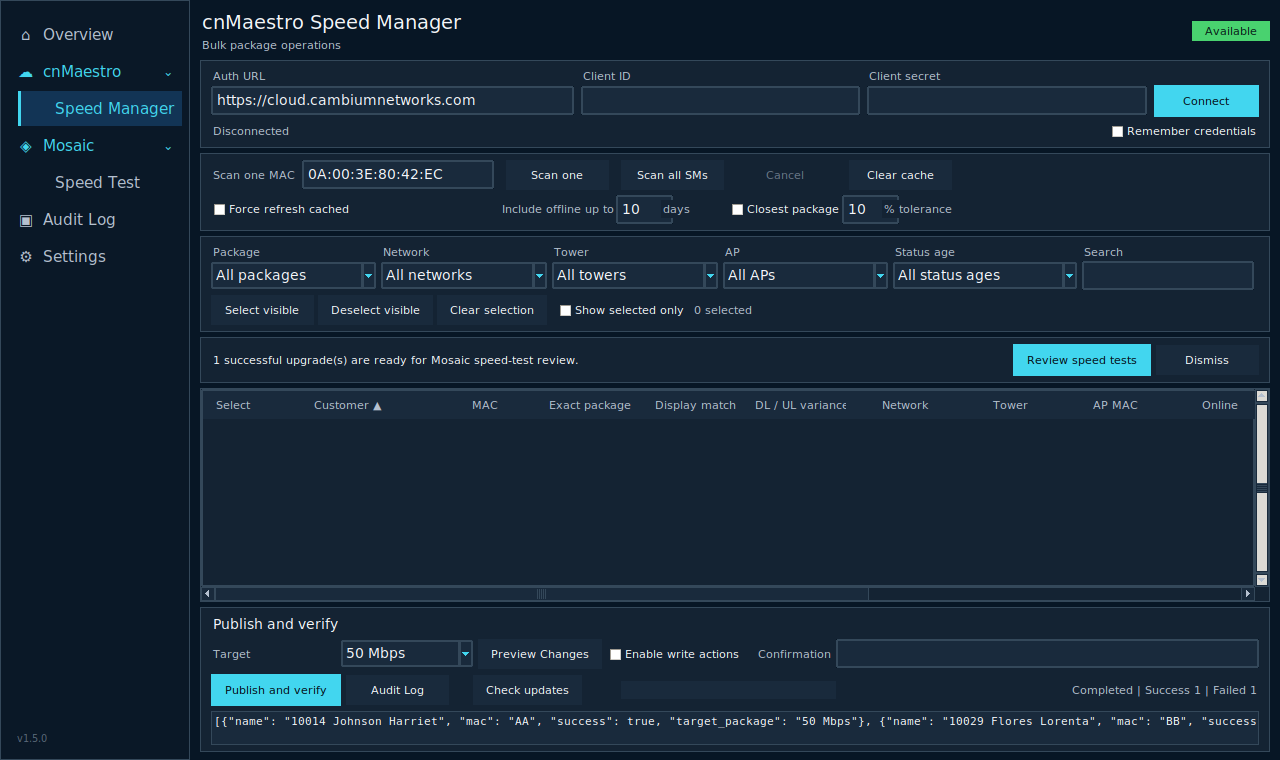
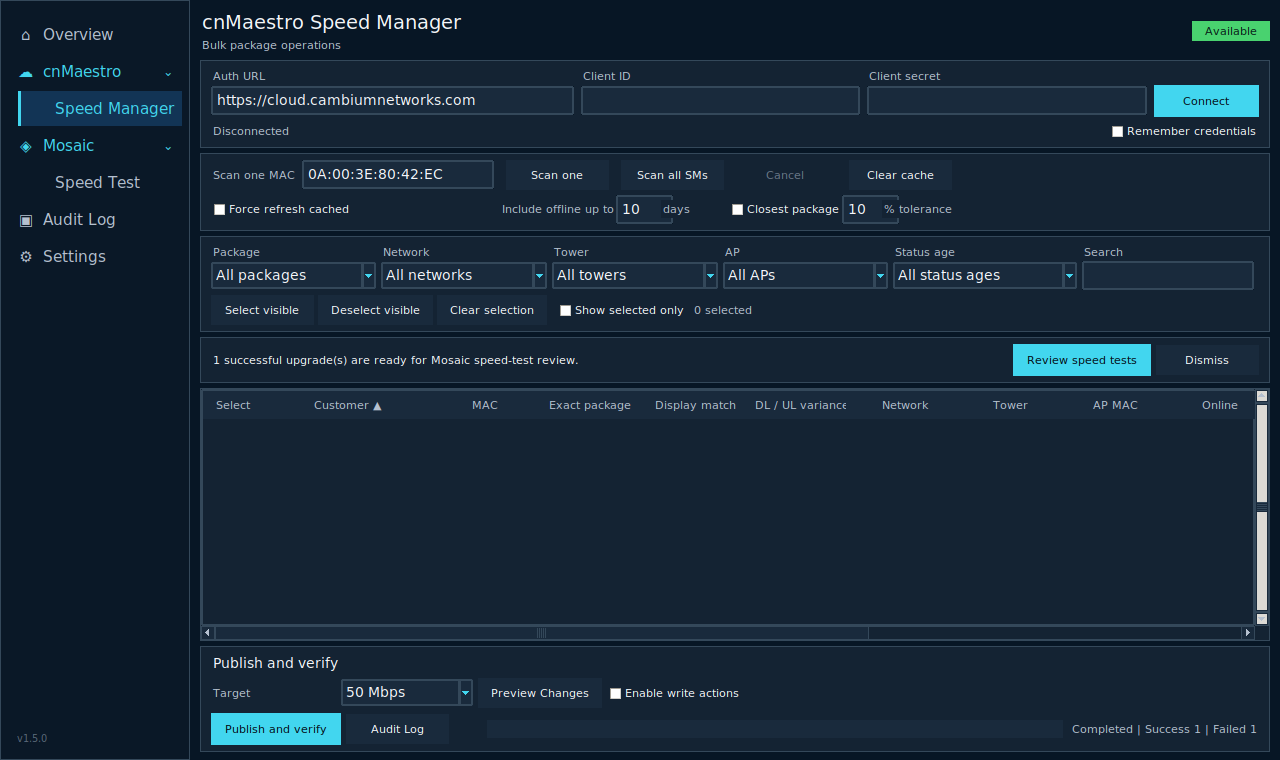
feat: improve result management and preview workflow
Add test timestamps, safe CSV export, list clearing, preview pop-out, connection guards, and streamlined Speed Manager controls.

Changed region(s): [[0.1562, 0.7566, 1.0, 0.9987], [0.9688, 0.6355, 1.0, 0.6658]]

diff --git a/cnmaestro_speed_manager.py b/cnmaestro_speed_manager.py
@@ -217,16 +217,26 @@ class App(tk.Tk):
   table_o,table=self.card(p,0,0);table_o.grid(row=4,column=0,sticky='nsew',pady=(0,5));table.columnconfigure(0,weight=1);table.rowconfigure(0,weight=1);self.cols=('select','name','mac','package','match','variance','network','tower','ap','online','stateage','rates','cache','stage','issue');heads=('Select','Customer','MAC','Exact package','Display match','DL / UL variance','Network','Tower','AP MAC','Online','Status age','DL / UL','Cache age','Progress','Issue');self.heads=dict(zip(self.cols,heads));self.tree=ttk.Treeview(table,columns=self.cols,show='headings',selectmode='none',height=4)
   for col,n in zip(self.cols,heads):self.tree.heading(col,text=n,command=lambda c=col:self.sort(c));self.tree.column(col,width=60 if col=='select' else (170 if col in ('name','issue') else 105),anchor='center' if col=='select' else 'w',stretch=False)
   self.tree.bind('<Button-1>',self.tree_click);y=ttk.Scrollbar(table,orient='vertical',command=self.tree.yview);x=ttk.Scrollbar(table,orient='horizontal',command=self.tree.xview);self.tree.configure(yscrollcommand=y.set,xscrollcommand=x.set);self.tree.grid(row=0,column=0,sticky='nsew');y.grid(row=0,column=1,sticky='ns');x.grid(row=1,column=0,sticky='ew')
-  o,b=self.card(p,10,6);o.grid(row=5,column=0,sticky='ew');self.preview_window=o;self.target=tk.StringVar(value='50 Mbps');self.write=tk.BooleanVar(value=False);self.confirm=tk.StringVar();ttk.Label(b,text='Publish and verify',style='CardTitle.TLabel').grid(row=0,column=0,columnspan=6,sticky='w',pady=(0,4));ttk.Label(b,text='Target',style='SurfaceMuted.TLabel').grid(row=1,column=0,sticky='w');ttk.Combobox(b,textvariable=self.target,values=list(PKGS),state='readonly',width=12).grid(row=1,column=1,sticky='w');ttk.Button(b,text='Preview Changes',command=self.preview_changes).grid(row=1,column=2,padx=5,sticky='w');self.w=ttk.Checkbutton(b,text='Enable write actions',variable=self.write);self.w.grid(row=1,column=3,sticky='w');ttk.Label(b,text='Confirmation',style='SurfaceMuted.TLabel').grid(row=1,column=4,padx=(14,3),sticky='e');ttk.Entry(b,textvariable=self.confirm,width=22).grid(row=1,column=5,sticky='ew');b.columnconfigure(5,weight=1)
-  self.pub=ttk.Button(b,text='Publish and verify',style='Accent.TButton',command=self.execute);self.pub.grid(row=2,column=0,sticky='w',pady=(5,0));ttk.Button(b,text='Audit Log',command=self.audit).grid(row=2,column=1,sticky='w',padx=5,pady=(5,0));ttk.Button(b,text='Check updates',command=lambda:self.check_updates(False)).grid(row=2,column=2,sticky='w',pady=(5,0));self.progress=ttk.Progressbar(b,mode='determinate');self.progress.grid(row=2,column=3,columnspan=2,sticky='ew',padx=(14,0),pady=(5,0));self.progtext=tk.StringVar(value='No publish operation active.');ttk.Label(b,textvariable=self.progtext,style='SurfaceMuted.TLabel').grid(row=2,column=5,sticky='e',padx=(7,0),pady=(5,0));self.out=tk.Text(b,height=2,width=1,bg=self.colors['surface2'],fg=self.colors['text'],insertbackground=self.colors['text'],relief='flat',highlightbackground=self.colors['border'],highlightthickness=1,font=('Consolas',8),wrap='none');self.out.grid(row=3,column=0,columnspan=6,sticky='ew',pady=(5,0))
+  o,b=self.card(p,10,6);o.grid(row=5,column=0,sticky='ew');self.publish_panel=o;self.preview_window=None;self.preview_tree=None;self.target=tk.StringVar(value='50 Mbps');self.write=tk.BooleanVar(value=False);self.confirm=tk.StringVar();ttk.Label(b,text='Publish and verify',style='CardTitle.TLabel').grid(row=0,column=0,columnspan=6,sticky='w',pady=(0,4));ttk.Label(b,text='Target',style='SurfaceMuted.TLabel').grid(row=1,column=0,sticky='w');ttk.Combobox(b,textvariable=self.target,values=list(PKGS),state='readonly',width=12).grid(row=1,column=1,sticky='w');ttk.Button(b,text='Preview Changes',command=self.preview_changes).grid(row=1,column=2,padx=5,sticky='w');self.w=ttk.Checkbutton(b,text='Enable write actions',variable=self.write);self.w.grid(row=1,column=3,sticky='w');b.columnconfigure(4,weight=1)
+  self.pub=ttk.Button(b,text='Publish and verify',style='Accent.TButton',command=self.publish_from_ui);self.pub.grid(row=2,column=0,sticky='w',pady=(5,0));ttk.Button(b,text='Audit Log',command=self.audit).grid(row=2,column=1,sticky='w',padx=5,pady=(5,0));self.progress=ttk.Progressbar(b,mode='determinate');self.progress.grid(row=2,column=2,columnspan=3,sticky='ew',padx=(14,0),pady=(5,0));self.progtext=tk.StringVar(value='No publish operation active.');ttk.Label(b,textvariable=self.progtext,style='SurfaceMuted.TLabel').grid(row=2,column=5,sticky='e',padx=(7,0),pady=(5,0));self.out=tk.Text(b,height=2,width=1,bg=self.colors['surface2'],fg=self.colors['text'],insertbackground=self.colors['text'],relief='flat',highlightbackground=self.colors['border'],highlightthickness=1,font=('Consolas',8),wrap='none');self.out.grid(row=3,column=0,columnspan=6,sticky='ew',pady=(5,0));self.out.grid_remove()
   self.mosaic_handoff_outer,handoff=self.card(p,10,6);self.mosaic_handoff_outer.grid(row=3,column=0,sticky='ew',pady=(0,5));self.mosaic_handoff_outer.grid_remove();handoff.columnconfigure(0,weight=1);self.mosaic_handoff_text=tk.StringVar(value='');ttk.Label(handoff,textvariable=self.mosaic_handoff_text,style='Surface.TLabel').grid(row=0,column=0,sticky='w');ttk.Button(handoff,text='Review speed tests',style='Accent.TButton',command=self.review_speedtests).grid(row=0,column=1,padx=5);ttk.Button(handoff,text='Dismiss',command=lambda:self.mosaic_handoff_outer.grid_remove()).grid(row=0,column=2)
  def build_control_window(self):self.controls=self.pages['speed_manager']
  def open_controls(self):self.show_page('speed_manager')
  def back_to_speed_manager(self):self.show_page('speed_manager')
- def show_preview_view(self):self.show_page('speed_manager')
+ def show_preview_view(self):
+  if self.preview:self.open_preview_window()
  def smoke_inline_views(self):self.open_controls();self.show_preview_view();self.back_to_speed_manager();self.title('Operations Toolkit - inline views smoke complete')
- def build_preview_window(self):self.preview_window=self.pages['speed_manager']
+ def build_preview_window(self):return None
+ def open_preview_window(self):
+  if self.preview_window and self.preview_window.winfo_exists():self.preview_window.destroy()
+  win=tk.Toplevel(self);self.preview_window=win;win.title('Preview Changes');win.geometry('1000x480');win.minsize(760,320);win.configure(bg=self.colors['bg']);win.transient(self)
+  shell=ttk.Frame(win,padding=(12,10));shell.pack(fill='both',expand=True);shell.columnconfigure(0,weight=1);shell.rowconfigure(1,weight=1);ttk.Label(shell,text='Preview Changes',style='PageTitle.TLabel').grid(row=0,column=0,sticky='w',pady=(0,8))
+  cols=('customer','mac','current','target','network','tower','online');heads=('Customer','MAC','Current package','Target package','Network','Tower','Online');tree=ttk.Treeview(shell,columns=cols,show='headings');self.preview_tree=tree
+  for col,head in zip(cols,heads):tree.heading(col,text=head);tree.column(col,width=180 if col=='customer' else 125,stretch=False)
+  for row in self.preview:tree.insert('', 'end',values=(row.get('name',''),row.get('mac',''),row.get('package',''),row.get('target_package',''),row.get('network',''),row.get('tower',''),'Yes' if row.get('online') else 'No'))
+  y=ttk.Scrollbar(shell,orient='vertical',command=tree.yview);x=ttk.Scrollbar(shell,orient='horizontal',command=tree.xview);tree.configure(yscrollcommand=y.set,xscrollcommand=x.set);tree.grid(row=1,column=0,sticky='nsew');y.grid(row=1,column=1,sticky='ns');x.grid(row=2,column=0,sticky='ew');ttk.Button(shell,text='Close',command=win.destroy).grid(row=3,column=0,sticky='e',pady=(8,0));win.protocol('WM_DELETE_WINDOW',win.destroy)
  def preview_changes(self):
+  if not self.api:return messagebox.showerror('Connect','Connect to cnMaestro first.')
   self.preview_rows()
   if self.preview:self.show_preview_view()
  def update_metrics(self):
@@ -235,10 +245,10 @@ class App(tk.Tk):
  def build_mosaic_speed_test(self):
   p=self.pages['mosaic_speed_test'];p.columnconfigure(0,weight=1);p.rowconfigure(3,weight=1);ttk.Label(p,text='Mosaic Speed Test',style='PageTitle.TLabel').grid(row=0,column=0,sticky='w');ttk.Label(p,text='Exact subscriber-code matching and supported Ookla diagnostics',style='Muted.TLabel').grid(row=1,column=0,sticky='w',pady=(2,8))
   o,b=self.card(p,10,6);o.grid(row=2,column=0,sticky='ew',pady=(0,5));b.columnconfigure(0,weight=3);b.columnconfigure(1,weight=2);b.columnconfigure(2,weight=2);ttk.Label(b,text='Base URL',style='SurfaceMuted.TLabel').grid(row=0,column=0,sticky='w');ttk.Label(b,text='Username',style='SurfaceMuted.TLabel').grid(row=0,column=1,sticky='w');ttk.Label(b,text='Password',style='SurfaceMuted.TLabel').grid(row=0,column=2,sticky='w');ttk.Entry(b,textvariable=self.mosaic_base_url).grid(row=1,column=0,sticky='ew',padx=(0,5));ttk.Entry(b,textvariable=self.mosaic_username).grid(row=1,column=1,sticky='ew',padx=(0,5));self.mosaic_password_entry=ttk.Entry(b,textvariable=self.mosaic_password,show='*');self.mosaic_password_entry.grid(row=1,column=2,sticky='ew',padx=(0,5));ttk.Button(b,text='Connect',style='Accent.TButton',command=self.connect_mosaic).grid(row=1,column=3);ttk.Checkbutton(b,text='Remember credentials',variable=self.mosaic_remember).grid(row=2,column=2,columnspan=2,sticky='e',pady=(4,0));ttk.Label(b,textvariable=self.mosaic_status,style='SurfaceMuted.TLabel').grid(row=2,column=0,columnspan=2,sticky='w',pady=(4,0))
-  o,t=self.card(p,0,0);o.grid(row=3,column=0,sticky='nsew',pady=(0,5));t.columnconfigure(0,weight=1);t.rowconfigure(0,weight=1);cols=('select','customer','code','subscriber','device','model','match','eligibility','state','download','upload','latency','jitter');heads=('Test','Customer','Code','Subscriber','Device','Router model','Match','Eligibility','Test status','Download','Upload','Latency','Jitter');self.mosaic_tree=ttk.Treeview(t,columns=cols,show='headings',selectmode='none',height=10)
-  for col,head in zip(cols,heads):self.mosaic_tree.heading(col,text=head);self.mosaic_tree.column(col,width=52 if col=='select' else (170 if col in ('customer','eligibility') else 92),stretch=False,anchor='center' if col=='select' else 'w')
+  o,t=self.card(p,0,0);o.grid(row=3,column=0,sticky='nsew',pady=(0,5));t.columnconfigure(0,weight=1);t.rowconfigure(0,weight=1);cols=('select','customer','code','subscriber','device','model','match','eligibility','state','test_time','download','upload','latency','jitter');heads=('Test','Customer','Code','Subscriber','Device','Router model','Match','Eligibility','Test status','Test time (UTC)','Download','Upload','Latency','Jitter');self.mosaic_tree=ttk.Treeview(t,columns=cols,show='headings',selectmode='none',height=10)
+  for col,head in zip(cols,heads):self.mosaic_tree.heading(col,text=head);self.mosaic_tree.column(col,width=52 if col=='select' else (170 if col in ('customer','eligibility') else (155 if col=='test_time' else 92)),stretch=False,anchor='center' if col=='select' else 'w')
   self.mosaic_tree.bind('<Button-1>',self.mosaic_tree_click);y=ttk.Scrollbar(t,orient='vertical',command=self.mosaic_tree.yview);x=ttk.Scrollbar(t,orient='horizontal',command=self.mosaic_tree.xview);self.mosaic_tree.configure(yscrollcommand=y.set,xscrollcommand=x.set);self.mosaic_tree.grid(row=0,column=0,sticky='nsew');y.grid(row=0,column=1,sticky='ns');x.grid(row=1,column=0,sticky='ew')
-  o,a=self.card(p,10,6);o.grid(row=4,column=0,sticky='ew');ttk.Label(a,text='Subscriber Code',style='SurfaceMuted.TLabel').grid(row=0,column=0,sticky='w');self.mosaic_search_entry=ttk.Entry(a,textvariable=self.mosaic_search_code,width=18);self.mosaic_search_entry.grid(row=0,column=1,padx=(5,5));self.mosaic_search_button=ttk.Button(a,text='Search Mosaic',style='Accent.TButton',command=self.search_mosaic_subscriber);self.mosaic_search_button.grid(row=0,column=2);self.mosaic_find_button=ttk.Button(a,text='Match Speed Manager selection',command=self.find_mosaic_matches);self.mosaic_find_button.grid(row=0,column=3,padx=(8,0));self.mosaic_run_button=ttk.Button(a,text='Run selected tests',style='Accent.TButton',command=self.run_selected_mosaic_tests);self.mosaic_run_button.grid(row=1,column=0,columnspan=2,pady=(6,0),sticky='w');self.mosaic_reconcile_button=ttk.Button(a,text='Check uncertain tests',command=self.reconcile_mosaic_unknown);self.mosaic_reconcile_button.grid(row=1,column=2,padx=(5,0),pady=(6,0));self.mosaic_back_button=ttk.Button(a,text='Back to Speed Manager',command=lambda:self.show_page('speed_manager'));self.mosaic_back_button.grid(row=1,column=3,padx=(8,0),pady=(6,0));self.mosaic_action_status=tk.StringVar(value='No speed-test operation active.');ttk.Label(a,textvariable=self.mosaic_action_status,style='SurfaceMuted.TLabel').grid(row=2,column=0,columnspan=4,sticky='w',pady=(5,0))
+  o,a=self.card(p,10,6);o.grid(row=4,column=0,sticky='ew');ttk.Label(a,text='Subscriber Code',style='SurfaceMuted.TLabel').grid(row=0,column=0,sticky='w');self.mosaic_search_entry=ttk.Entry(a,textvariable=self.mosaic_search_code,width=18);self.mosaic_search_entry.grid(row=0,column=1,padx=(5,5));self.mosaic_search_button=ttk.Button(a,text='Search Mosaic',style='Accent.TButton',command=self.search_mosaic_subscriber);self.mosaic_search_button.grid(row=0,column=2);self.mosaic_find_button=ttk.Button(a,text='Match Speed Manager selection',command=self.find_mosaic_matches);self.mosaic_find_button.grid(row=0,column=3,padx=(8,0));self.mosaic_run_button=ttk.Button(a,text='Run selected tests',style='Accent.TButton',command=self.run_selected_mosaic_tests);self.mosaic_run_button.grid(row=1,column=0,columnspan=2,pady=(6,0),sticky='w');self.mosaic_reconcile_button=ttk.Button(a,text='Check uncertain tests',command=self.reconcile_mosaic_unknown);self.mosaic_reconcile_button.grid(row=1,column=2,padx=(5,0),pady=(6,0));self.mosaic_remove_button=ttk.Button(a,text='Remove selected',command=self.clear_selected_mosaic_candidates);self.mosaic_remove_button.grid(row=1,column=3,padx=(5,0),pady=(6,0));self.mosaic_clear_button=ttk.Button(a,text='Clear all',command=self.clear_all_mosaic_candidates);self.mosaic_clear_button.grid(row=1,column=4,padx=(5,0),pady=(6,0));self.mosaic_export_button=ttk.Button(a,text='Export CSV',command=self.export_mosaic_csv);self.mosaic_export_button.grid(row=1,column=5,padx=(5,0),pady=(6,0));self.mosaic_back_button=ttk.Button(a,text='Back to Speed Manager',command=lambda:self.show_page('speed_manager'));self.mosaic_back_button.grid(row=2,column=0,columnspan=2,sticky='w',pady=(6,0));self.mosaic_action_status=tk.StringVar(value='No speed-test operation active.');ttk.Label(a,textvariable=self.mosaic_action_status,style='SurfaceMuted.TLabel').grid(row=2,column=2,columnspan=4,sticky='w',padx=(8,0),pady=(6,0))
  def on_publish_progress_changed(self,*_):
   text=self.progtext.get()
   if not text.startswith('Completed |') or text==self._publish_handoff_signature:return
@@ -292,7 +302,7 @@ class App(tk.Tk):
    return found
   self.bg(work(),self.finish_mosaic_matches)
  def mosaic_candidate(self,customer,index,match,eligibility):
-  fields=match.record.get('fields',{}) if match and match.record else {};status=match.status if match else 'missing_code';reason=match.reason if match else 'Customer name has no leading subscriber code';eligible=bool(eligibility and eligibility.eligible);return {'key':str(fields.get('deviceId') or f'unmatched-{index}'),'selected':False,'customer':customer.get('name',''),'subscriber_code':match.subscriber_code if match else None,'subscriber_id':fields.get('subscriberId'),'device_id':fields.get('deviceId'),'model':fields.get('model'),'match':match.confidence if match and match.confidence else status,'eligible':eligible,'eligibility':eligibility.reason if eligibility else reason,'state':'ready' if eligible else 'review','download_mbps':None,'upload_mbps':None,'latency_ms':None,'jitter_ms':None,'record':match.record if match and match.record else None}
+  fields=match.record.get('fields',{}) if match and match.record else {};status=match.status if match else 'missing_code';reason=match.reason if match else 'Customer name has no leading subscriber code';eligible=bool(eligibility and eligibility.eligible);return {'key':str(fields.get('deviceId') or f'unmatched-{index}'),'selected':False,'customer':customer.get('name',''),'subscriber_code':match.subscriber_code if match else None,'subscriber_id':fields.get('subscriberId'),'device_id':fields.get('deviceId'),'model':fields.get('model'),'match':match.confidence if match and match.confidence else status,'eligible':eligible,'eligibility':eligibility.reason if eligibility else reason,'state':'ready' if eligible else 'review','download_mbps':None,'upload_mbps':None,'latency_ms':None,'jitter_ms':None,'test_time_utc':None,'record':match.record if match and match.record else None}
  def finish_mosaic_matches(self,result,error):
   if error:self.mosaic_action_status.set('Match error: '+str(error));return
   self.mosaic_candidates=result;self.mosaic_checked.clear();self.render_mosaic_candidates();ready=sum(c['eligible'] for c in result);self.mosaic_action_status.set(f'{len(result)} matched/reviewed | {ready} eligible')
@@ -300,7 +310,7 @@ class App(tk.Tk):
   if not hasattr(self,'mosaic_tree'):return
   self.mosaic_tree.delete(*self.mosaic_tree.get_children())
   for c in self.mosaic_candidates:
-   key=c['key'];self.mosaic_tree.insert('', 'end',iid=key,values=('☑' if key in self.mosaic_checked else '☐',c['customer'],c.get('subscriber_code') or '',c.get('subscriber_id') or '',c.get('device_id') or '',c.get('model') or '',c.get('match') or '',c.get('eligibility') or '',c.get('state') or '',self.metric_text(c.get('download_mbps'),' Mbps'),self.metric_text(c.get('upload_mbps'),' Mbps'),self.metric_text(c.get('latency_ms'),' ms'),self.metric_text(c.get('jitter_ms'),' ms')))
+   key=c['key'];self.mosaic_tree.insert('', 'end',iid=key,values=('☑' if key in self.mosaic_checked else '☐',c['customer'],c.get('subscriber_code') or '',c.get('subscriber_id') or '',c.get('device_id') or '',c.get('model') or '',c.get('match') or '',c.get('eligibility') or '',c.get('state') or '',c.get('test_time_utc') or '',self.metric_text(c.get('download_mbps'),' Mbps'),self.metric_text(c.get('upload_mbps'),' Mbps'),self.metric_text(c.get('latency_ms'),' ms'),self.metric_text(c.get('jitter_ms'),' ms')))
  def metric_text(self,value,suffix):return '' if value is None else f'{value:.2f}{suffix}'
  def mosaic_tree_click(self,event):
   if self.mosaic_tree.identify_region(event.x,event.y)!='cell' or self.mosaic_tree.identify_column(event.x)!='#1':return
@@ -311,6 +321,24 @@ class App(tk.Tk):
   if key in self.mosaic_checked:self.mosaic_checked.remove(key)
   else:self.mosaic_checked.add(key)
   candidate['selected']=key in self.mosaic_checked;self.render_mosaic_candidates()
+ def clear_selected_mosaic_candidates(self):
+  if self.mosaic_running:return messagebox.showerror('Mosaic','Wait for the active speed test to finish.')
+  if not self.mosaic_checked:return messagebox.showinfo('Mosaic','Select the customers to remove first.')
+  removed=set(self.mosaic_checked);self.mosaic_candidates=[candidate for candidate in self.mosaic_candidates if candidate.get('key') not in removed];self.mosaic_checked.clear();self.render_mosaic_candidates();self.mosaic_action_status.set(f'Removed {len(removed)} selected row(s).')
+ def clear_all_mosaic_candidates(self):
+  if self.mosaic_running:return messagebox.showerror('Mosaic','Wait for the active speed test to finish.')
+  count=len(self.mosaic_candidates);self.mosaic_candidates=[];self.mosaic_checked.clear();self.pending_speedtest_customers=[];self.render_mosaic_candidates();self.mosaic_action_status.set(f'Cleared {count} row(s).')
+ def csv_cell(self,value):
+  text='' if value is None else str(value);meaningful=text.lstrip('\x00\t\n\r ');return "'"+text if meaningful.startswith(('=','+','-','@')) else text
+ def export_mosaic_csv(self):
+  if not self.mosaic_candidates:return messagebox.showinfo('Export speed tests','There are no speed-test rows to export.')
+  path=filedialog.asksaveasfilename(title='Export speed-test data',defaultextension='.csv',filetypes=[('CSV files','*.csv')],initialfile='operations-toolkit-speed-tests.csv')
+  if not path:return
+  fields=('Customer','Subscriber Code','Subscriber ID','Device ID','Router Model','Match','Eligibility','Test status','Test time (UTC)','Download Mbps','Upload Mbps','Latency ms','Jitter ms')
+  with open(path,'w',newline='',encoding='utf-8-sig') as handle:
+   writer=csv.DictWriter(handle,fieldnames=fields);writer.writeheader()
+   for row in self.mosaic_candidates:writer.writerow({key:self.csv_cell(value) for key,value in {'Customer':row.get('customer'),'Subscriber Code':row.get('subscriber_code'),'Subscriber ID':row.get('subscriber_id'),'Device ID':row.get('device_id'),'Router Model':row.get('model'),'Match':row.get('match'),'Eligibility':row.get('eligibility'),'Test status':row.get('state'),'Test time (UTC)':row.get('test_time_utc'),'Download Mbps':row.get('download_mbps'),'Upload Mbps':row.get('upload_mbps'),'Latency ms':row.get('latency_ms'),'Jitter ms':row.get('jitter_ms')}.items()})
+  messagebox.showinfo('Speed-test data exported',f'{len(self.mosaic_candidates)} row(s) exported to:\n{path}')
  def run_selected_mosaic_tests(self):
   if self.mosaic_running:return
   if not self.mosaic_api:return messagebox.showerror('Mosaic','Connect to Mosaic first')
@@ -365,7 +393,7 @@ class App(tk.Tk):
  def connect(self):
   attempt=(self.auth.get(),self.cid.get(),self.sec.get(),bool(self.remember_credentials.get()));self.api=API(attempt[0],attempt[1],attempt[2],self.notice);self.status.set('Connecting...');self.bg(self.api.authonly(),lambda result,error,attempt=attempt:self.finish_connect(result,error,attempt))
  def finish_connect(self,result,error,attempt):
-  if error:self.status.set('Error: connection failed');return
+  if error:self.api=None;self.status.set('Error: connection failed');return
   self.status.set('Connected: '+result)
   if attempt[3]:
    warnings=[]
@@ -454,6 +482,11 @@ class App(tk.Tk):
   self.preview=out;self.show({'count':len(out),'changes':out})
  def publish_status(self,idx,total,m,stage,ok,fail):
   self.job_status[m]=stage;self.progress['maximum']=total;self.progress['value']=idx-1;self.progtext.set(f'{idx} of {total} | {stage} | Success {ok} | Failed {fail}');self.render()
+ def publish_from_ui(self):
+  if not self.api:return messagebox.showerror('Connect','Connect to cnMaestro first.')
+  self.confirm.set(PHRASE)
+  try:self.execute()
+  finally:self.confirm.set('')
  def execute(self):
   if not self.write.get():return messagebox.showerror('Blocked','Enable write actions')
   if self.confirm.get()!=PHRASE:return messagebox.showerror('Blocked','Enter: '+PHRASE)

diff --git a/tests/test_inline_tool_views.py b/tests/test_inline_tool_views.py
@@ -5,6 +5,7 @@ import tkinter as tk
 from tkinter import ttk
 from tkinter import font as tkfont
 import unittest
+from unittest import mock
 
 _TEST_DATA_ROOT = tempfile.mkdtemp()
 os.environ["LOCALAPPDATA"] = _TEST_DATA_ROOT
@@ -82,12 +83,12 @@ class InlineToolViewTests(unittest.TestCase):
         self.assertNotIn("scan_filters", self.app.pages)
         self.assertNotIn("preview_publish", self.app.pages)
         self.assertTrue(self.is_descendant(self.app.controls, self.app.pages["speed_manager"]))
-        self.assertTrue(self.is_descendant(self.app.preview_window, self.app.pages["speed_manager"]))
+        self.assertTrue(self.is_descendant(self.app.publish_panel, self.app.pages["speed_manager"]))
         self.assertTrue(self.app.controls.winfo_ismapped())
-        self.assertTrue(self.app.preview_window.winfo_ismapped())
+        self.assertTrue(self.app.publish_panel.winfo_ismapped())
         self.assertTrue(self.app.tree.winfo_ismapped())
         self.assertFalse(hasattr(self.app, "metric_vars"))
-        publish_bottom = self.app.preview_window.winfo_rooty() + self.app.preview_window.winfo_height()
+        publish_bottom = self.app.publish_panel.winfo_rooty() + self.app.publish_panel.winfo_height()
         content_bottom = self.app.content.winfo_rooty() + self.app.content.winfo_height()
         self.assertLessEqual(publish_bottom, content_bottom)
         self.assertGreater(self.app.tree.winfo_height(), 80)
@@ -96,7 +97,7 @@ class InlineToolViewTests(unittest.TestCase):
         action_windows = [child for child in self.app.winfo_children() if isinstance(child, tk.Toplevel)]
         self.assertEqual(action_windows, [])
         self.assertNotIsInstance(self.app.controls, tk.Toplevel)
-        self.assertNotIsInstance(self.app.preview_window, tk.Toplevel)
+        self.assertFalse(getattr(self.app, "preview_window", None))
 
     def test_open_controls_keeps_integrated_speed_manager_workspace(self):
         self.app.deiconify()
@@ -107,7 +108,7 @@ class InlineToolViewTests(unittest.TestCase):
         self.assertTrue(self.app.controls.winfo_ismapped())
         self.assert_speed_manager_context_is_active()
 
-    def test_valid_preview_stays_in_integrated_publish_section(self):
+    def test_valid_preview_opens_structured_popout_window(self):
         self.app.rows = {
             "AA:BB:CC:DD:EE:FF": {
                 "name": "Test SM", "mac": "AA:BB:CC:DD:EE:FF", "package": "25 Mbps",
@@ -118,6 +119,8 @@ class InlineToolViewTests(unittest.TestCase):
         }
         self.app.checked = {"AA:BB:CC:DD:EE:FF"}
         self.app.target.set("50 Mbps")
+        self.app.api = object()
+        self.app.api = object()
         self.app.deiconify()
 
         self.app.preview_changes()
@@ -125,9 +128,54 @@ class InlineToolViewTests(unittest.TestCase):
 
         self.assertEqual(len(self.app.preview), 1)
         self.assertTrue(self.app.pages["speed_manager"].winfo_ismapped())
+        self.assertIsInstance(self.app.preview_window, tk.Toplevel)
         self.assertTrue(self.app.preview_window.winfo_ismapped())
-        self.assertIn('"target_package": "50 Mbps"', self.app.out.get("1.0", "end"))
+        self.assertEqual(len(self.app.preview_tree.get_children()), 1)
+        values = self.app.preview_tree.item(self.app.preview_tree.get_children()[0], "values")
+        self.assertEqual(values[0], "Test SM")
+        self.assertEqual(values[3], "50 Mbps")
+        self.assertFalse(self.app.out.winfo_ismapped())
         self.assert_speed_manager_context_is_active()
+
+
+    def test_preview_without_cnmaestro_connection_notifies_user(self):
+        self.app.api = None
+        with mock.patch.object(toolkit.messagebox, "showerror") as error:
+            self.app.preview_changes()
+        error.assert_called_once()
+        self.assertIn("Connect", error.call_args.args[0])
+        self.assertFalse(getattr(self.app, "preview_window", None))
+
+
+    def widget_texts(self, root):
+        values = []
+        for widget in root.winfo_children():
+            if "text" in widget.keys(): values.append(str(widget.cget("text")))
+            values.extend(self.widget_texts(widget))
+        return values
+
+    def test_speed_manager_removes_confirmation_and_update_controls(self):
+        publish_text = self.widget_texts(self.app.publish_panel)
+        settings_text = self.widget_texts(self.app.pages["settings"])
+        self.assertNotIn("Confirmation", publish_text)
+        self.assertNotIn("Check updates", publish_text)
+        self.assertIn("Check for updates", settings_text)
+
+    def test_publish_without_connection_notifies_and_does_not_execute(self):
+        self.app.api = None
+        with mock.patch.object(toolkit.messagebox, "showerror") as error, mock.patch.object(self.app, "execute") as execute:
+            self.app.publish_from_ui()
+        error.assert_called_once()
+        self.assertIn("Connect", error.call_args.args[0])
+        execute.assert_not_called()
+
+    def test_publish_wrapper_satisfies_hidden_internal_confirmation(self):
+        self.app.api = object()
+        observed = []
+        with mock.patch.object(self.app, "execute", side_effect=lambda: observed.append(self.app.confirm.get())):
+            self.app.publish_from_ui()
+        self.assertEqual(observed, [toolkit.PHRASE])
+        self.assertEqual(self.app.confirm.get(), "")
 
     def test_sidebar_audit_log_opens_embedded_table_with_export_hook(self):
         with sqlite3.connect(toolkit.DB) as connection:

diff --git a/tests/test_mosaic_ui.py b/tests/test_mosaic_ui.py
@@ -38,7 +38,7 @@ class MosaicUiTests(unittest.TestCase):
     def test_mosaic_page_has_masked_credentials_candidate_table_and_actions(self):
         self.assertEqual(self.app.mosaic_password_entry.cget("show"), "*")
         self.assertEqual(tuple(self.app.mosaic_tree["columns"]), (
-            "select", "customer", "code", "subscriber", "device", "model", "match", "eligibility", "state", "download", "upload", "latency", "jitter"
+            "select", "customer", "code", "subscriber", "device", "model", "match", "eligibility", "state", "test_time", "download", "upload", "latency", "jitter"
         ))
         labels = {widget.cget("text") for widget in self.app.pages["mosaic_speed_test"].winfo_children() if hasattr(widget, "cget") and "text" in widget.keys()}
         self.assertIn("Mosaic Speed Test", labels)
@@ -74,6 +74,55 @@ class MosaicUiTests(unittest.TestCase):
 
 
 
+
+
+    def test_clear_selected_and_clear_all_only_change_visible_candidates(self):
+        self.app.pending_speedtest_customers = [{"name": "10014 Test"}]
+        self.app.mosaic_candidates = [
+            {"key": "2", "eligible": True, "customer": "10014 A"},
+            {"key": "3", "eligible": True, "customer": "10015 B"},
+        ]
+        self.app.mosaic_checked = {"2"}
+        self.app.clear_selected_mosaic_candidates()
+        self.assertEqual([row["key"] for row in self.app.mosaic_candidates], ["3"])
+        self.assertEqual(self.app.mosaic_checked, set())
+        self.app.clear_all_mosaic_candidates()
+        self.assertEqual(self.app.mosaic_candidates, [])
+        self.assertEqual(self.app.pending_speedtest_customers, [])
+
+    def test_csv_export_is_excel_compatible_and_formula_safe(self):
+        import csv
+        from pathlib import Path
+        output = Path(_TEST_ROOT) / "speed-tests.csv"
+        self.app.mosaic_candidates = [{
+            "customer": "=danger", "subscriber_code": "10014", "subscriber_id": "1", "device_id": "2",
+            "model": "ADTRAN", "match": "code_and_name", "eligibility": "Ready", "state": "verified",
+            "test_time_utc": "2026-08-21 01:02:03 UTC", "download_mbps": 50.0, "upload_mbps": 10.0,
+            "latency_ms": 12.0, "jitter_ms": 3.0,
+        }]
+        with mock.patch.object(toolkit.filedialog, "asksaveasfilename", return_value=str(output)), mock.patch.object(toolkit.messagebox, "showinfo"):
+            self.app.export_mosaic_csv()
+        with output.open(encoding="utf-8-sig", newline="") as handle: rows=list(csv.DictReader(handle))
+        self.assertEqual(rows[0]["Customer"], "'=danger")
+        self.assertEqual(rows[0]["Test time (UTC)"], "2026-08-21 01:02:03 UTC")
+        self.assertEqual(rows[0]["Download Mbps"], "50.0")
+
+    def test_result_management_controls_and_test_time_column_exist(self):
+        self.assertEqual(self.app.mosaic_tree.heading("test_time")["text"], "Test time (UTC)")
+        self.assertEqual(self.app.mosaic_remove_button.cget("text"), "Remove selected")
+        self.assertEqual(self.app.mosaic_clear_button.cget("text"), "Clear all")
+        self.assertEqual(self.app.mosaic_export_button.cget("text"), "Export CSV")
+
+
+    def test_mosaic_actions_without_connection_notify_user(self):
+        self.app.mosaic_api = None
+        self.app.mosaic_search_code.set("10014")
+        with mock.patch.object(toolkit.messagebox, "showerror") as error:
+            self.app.search_mosaic_subscriber()
+            self.app.run_selected_mosaic_tests()
+            self.app.reconcile_mosaic_unknown()
+        self.assertEqual(error.call_count, 3)
+        self.assertTrue(all("Mosaic" in call.args[0] for call in error.call_args_list))
 
     def test_independent_subscriber_code_search_builds_candidate(self):
         class FakeApi:

diff --git a/mosaic_service.py b/mosaic_service.py
@@ -151,6 +151,22 @@ def _number(value):
         return None
 
 
+def _test_time_utc(value) -> str | None:
+    if value in (None, ""):
+        return None
+    try:
+        number = float(value)
+        if number > 10_000_000_000:
+            number /= 1000
+        parsed = datetime.fromtimestamp(number, timezone.utc)
+    except (TypeError, ValueError, OSError, OverflowError):
+        parsed = _parse_timestamp(value)
+        if not parsed:
+            return str(value)
+        parsed = parsed.astimezone(timezone.utc)
+    return parsed.strftime("%Y-%m-%d %H:%M:%S UTC")
+
+
 def latest_speed_result(data: dict) -> dict | None:
     results = [value for value in _result_container(data).values() if isinstance(value, dict)]
     if not results:
@@ -161,6 +177,7 @@ def latest_speed_result(data: dict) -> dict | None:
     return {
         "status": latest.get("Status"),
         "start_timestamp": str(latest.get("StartTimeStamp")) if latest.get("StartTimeStamp") is not None else None,
+        "test_time_utc": _test_time_utc(latest.get("StartTimeStamp")),
         "download_mbps": download / 1_000_000 if download is not None else None,
         "upload_mbps": upload / 1_000_000 if upload is not None else None,
         "latency_ms": _number(latest.get("PingLatency")),

diff --git a/tests/test_mosaic_service.py b/tests/test_mosaic_service.py
@@ -102,6 +102,7 @@ class ResultTests(unittest.TestCase):
         self.assertEqual(result["upload_mbps"], 10.0)
         self.assertEqual(result["latency_ms"], 12.0)
         self.assertEqual(result["jitter_ms"], 3.0)
+        self.assertEqual(result["test_time_utc"], "1970-01-01 00:03:20 UTC")
         self.assertNotIn("Host", json.dumps(result))
         self.assertNotIn("ClientIP", json.dumps(result))
         self.assertNotIn("192.0.2", json.dumps(result))

diff --git a/README.md b/README.md
@@ -8,6 +8,8 @@ Operations Toolkit 1.5.0 is a local candidate that preserves the working cnMaest
 - Matches cnMaestro customers to Mosaic by an exact leading subscriber code; normalized customer names are confidence checks only. Missing, duplicate, and multi-device matches remain operator-review states.
 - Adds capability preflight and clearly marks unsupported routers such as SR905acv instead of offering a test action.
 - Adds an in-app handoff after successful cnMaestro upgrades; it never starts tests automatically.
+- Shows test date/time in UTC and supports clearing visible rows or exporting Excel-compatible CSV.
+- Provides a structured pop-out Preview Changes table while keeping update checks in Settings.
 - Runs explicitly selected supported Ookla tests sequentially, with a durable local journal and unknown-outcome reconciliation.
 - Mosaic passwords are optionally stored per Windows user in Windows Credential Manager, never plaintext, and never auto-connect.
 - Preserves the cnMaestro API and guarded operational behavior from previous releases.
